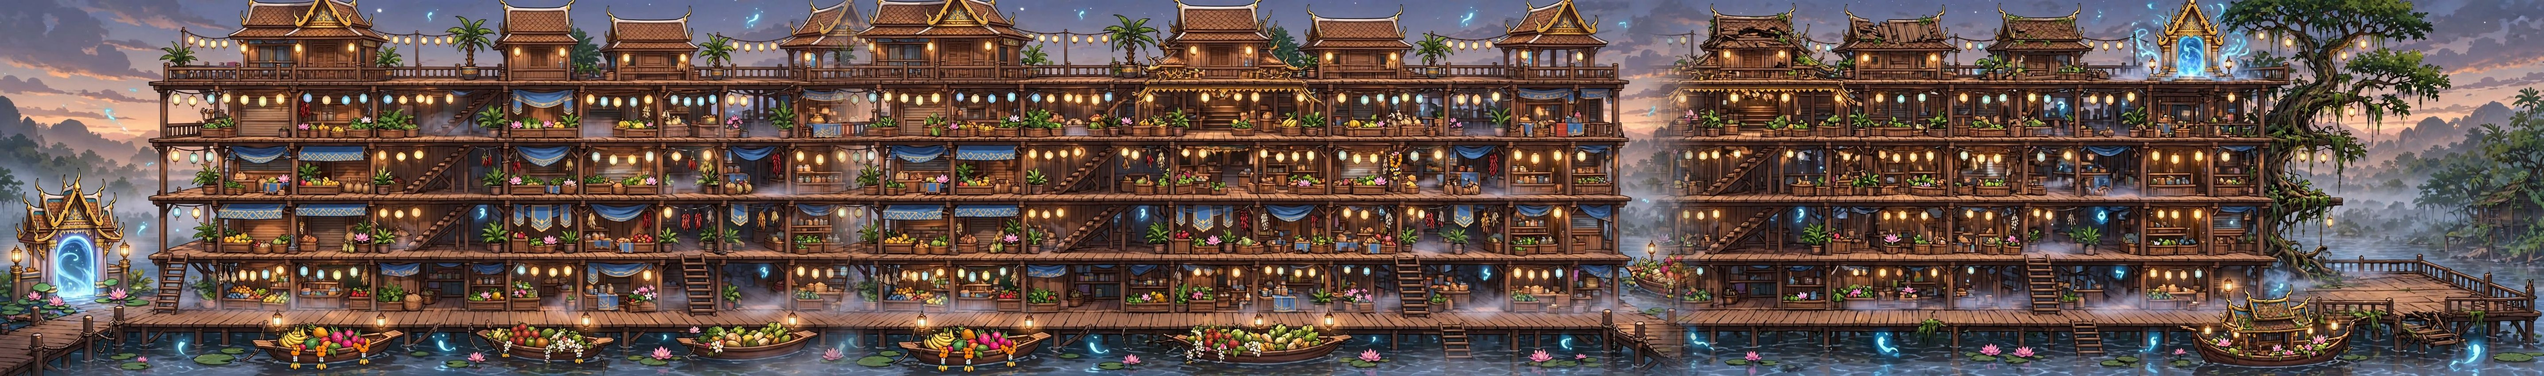
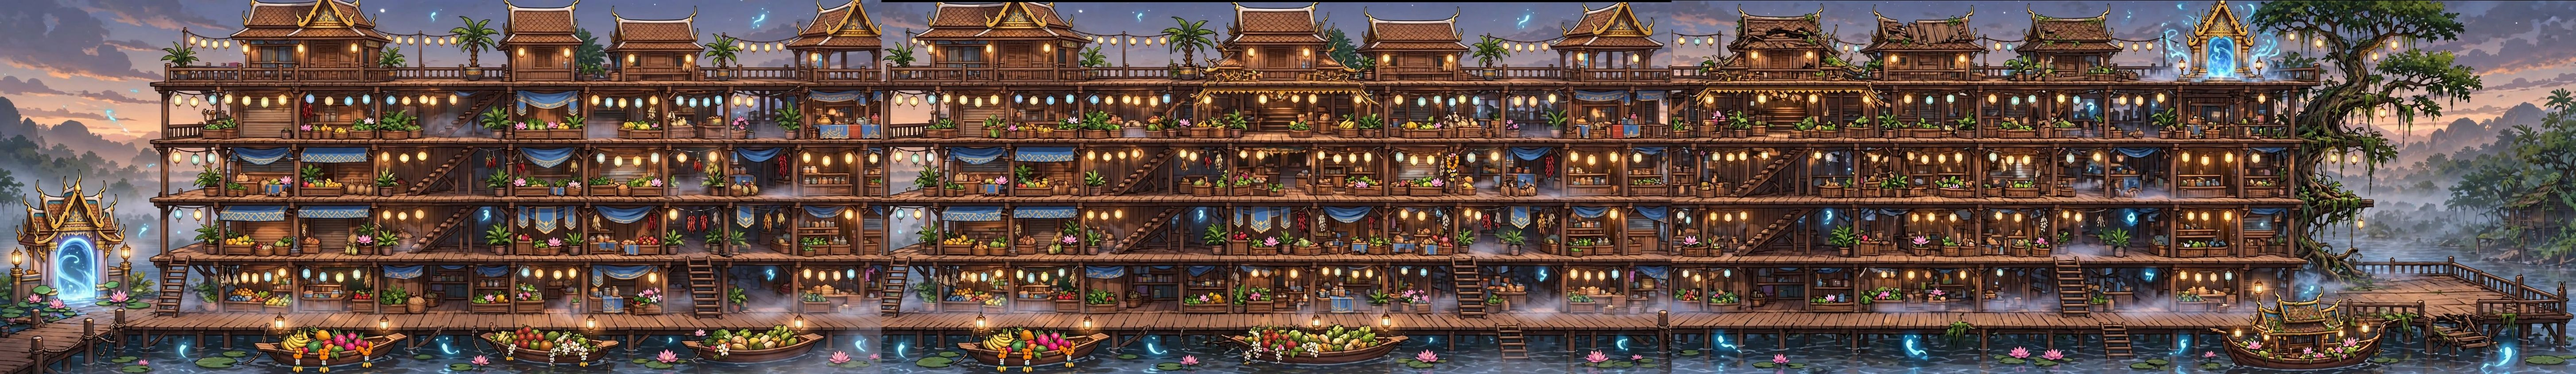
Thai map 2: rejoin the overview with floors lined up, hard cuts (no ghosting)
Claude-Session: https://claude.ai/code/session_01TXxUxQJHchkyxvbtS4Cbim

diff --git a/docs/action-game.md b/docs/action-game.md
@@ -1558,4 +1558,4 @@ Open: redo campfire / fence / firewood / fern tree (4 credits) or clean them (ow
 - Meta AI prompt for the same kit in the overview's painterly style: `art/incoming/thai/PROMPT_META_map1_kit.txt` (8 smaller sheets; owner "ย่าลืมบอกห้าม(ล้น)กรอบ" = every piece fully inside the picture, no frames / borders / boxes). Files to send back: meta_kit_01..08.png.
 - Owner 2026-11-15: "ชุดเดิมดีกว่า แมพเอาแบบเดิม" = the first painted kit stays (default, `art/sidegame/thai/`); the toon set stays only as `&kit=toon`.
 - Map 2 (owner "ดูจากตัวละครเรา แมพต่อไปให้เข้ากับลายเส้นตัวละคร ... ยาวๆ ทั้งแมพ"): ตลาดน้ำผีสิง, the gate of map 1 leads there. Overview prompt in the ARCHER's line style (bold outlines, cel shading, bright), 3 joined pictures left / middle / right, 5 full-width stilt-market floors: `art/incoming/thai/PROMPT_GPT_map2_overview.txt`. Claude cannot paint this itself (PixelLab = pixel art, owner: no pixel for the side game).
-- Map 2 overview from META AI (owner pasted 3 pictures, stored `art/incoming/thai/map2/meta_left|mid|right.jpg`, 2000x~850 each): bold-line cel style matching the archer, 5 full-width stilt-market floors, ladders / stairs, boats, gate bottom-left (arrival) and gate on the top floor right (to map 3), big tree + broken pier at the right end. Joined preview `meta_joined.jpg` (5744x850, 140 px cross-fades: left-mid joins well, mid-right has a small gap of water / sky). Note: the market walls are very busy, need darkening behind the walk lines when built. Next = owner approves -> kit prompt (pieces) -> build like map 1.
+- Map 2 overview from META AI (owner pasted 3 pictures, stored `art/incoming/thai/map2/meta_left|mid|right.jpg`, 2000x~850 each): bold-line cel style matching the archer, 5 full-width stilt-market floors, ladders / stairs, boats, gate bottom-left (arrival) and gate on the top floor right (to map 3), big tree + broken pier at the right end. Joined preview `meta_joined.jpg` (5816x845): owner "มันเนียนตรงไหน" -> the first cross-fade made double ghost rails; redone with the deck lines lined up (mid +5 px, right x1.021) and hard cuts, floors now match but a straight seam still shows where the 3 separate pictures meet. Note: the market walls are very busy, need darkening behind the walk lines when built. Next = owner approves -> kit prompt (pieces) -> build like map 1.
